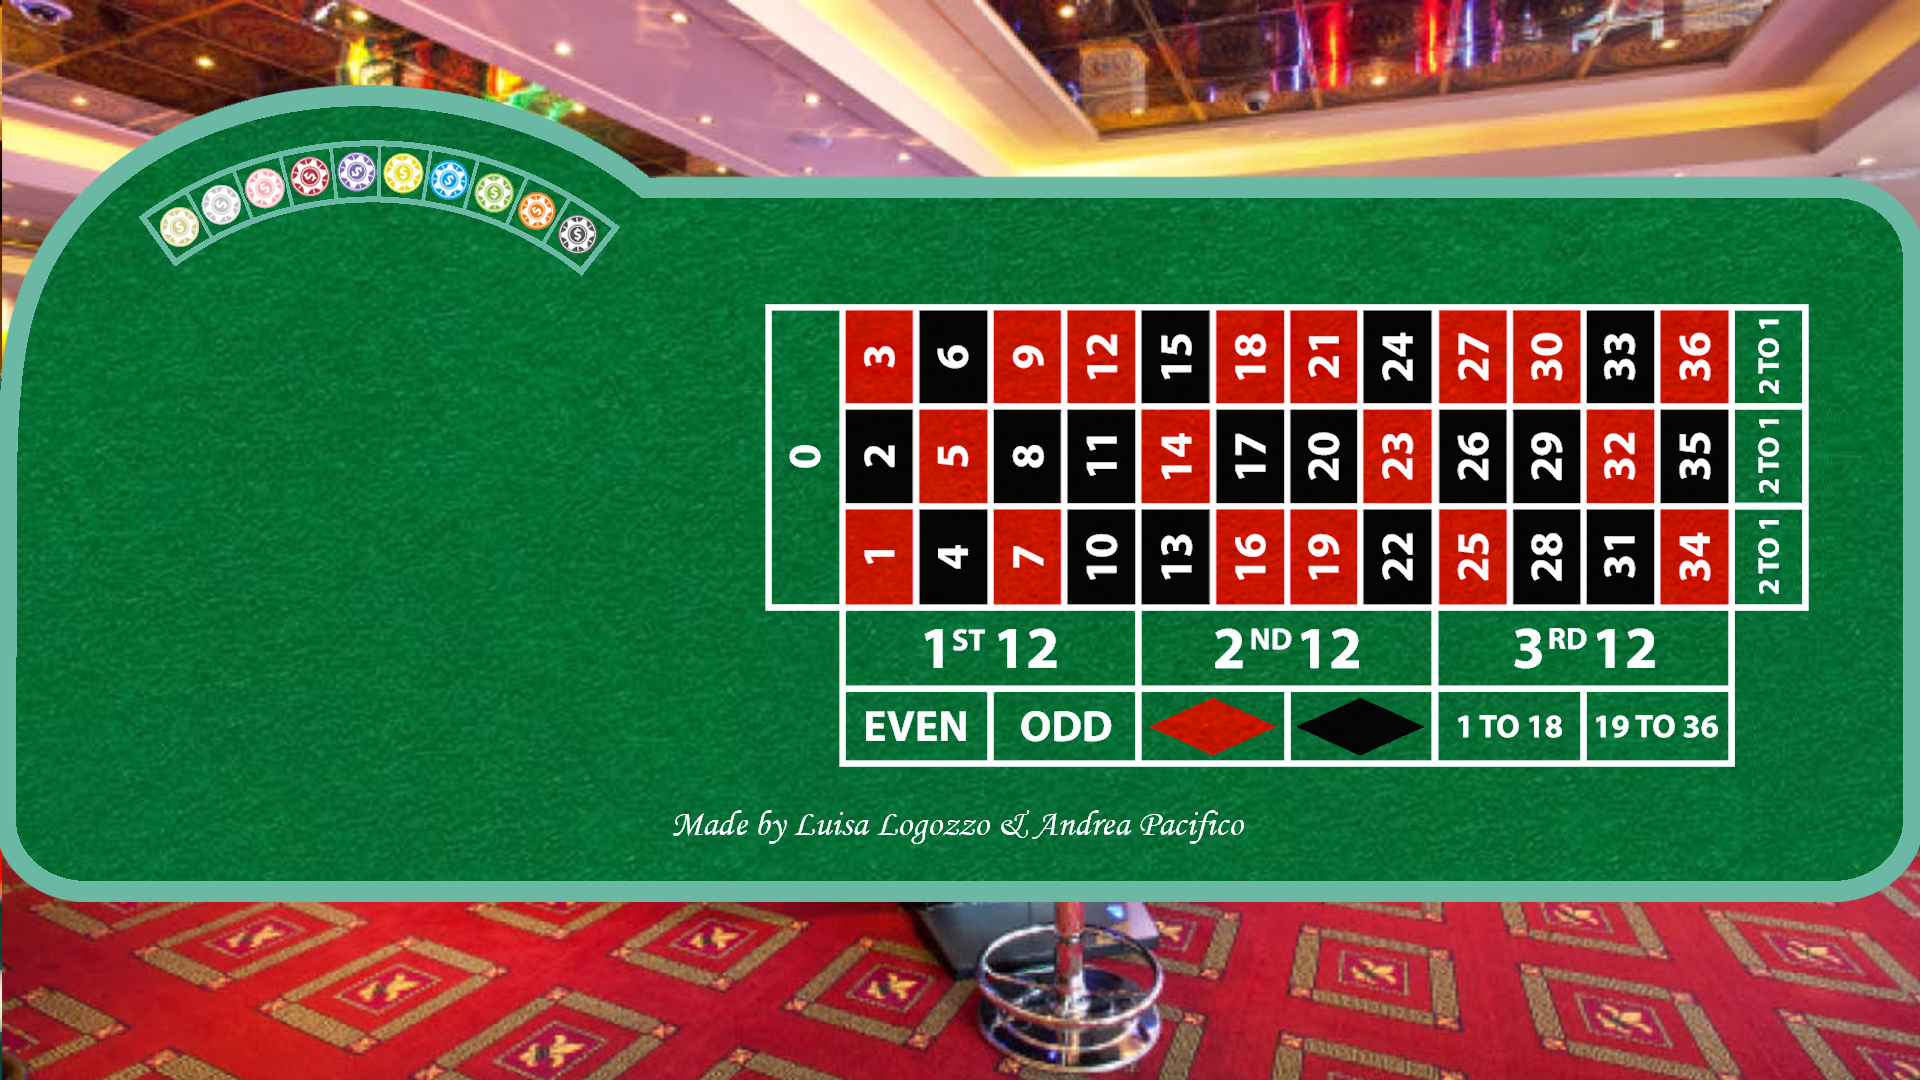
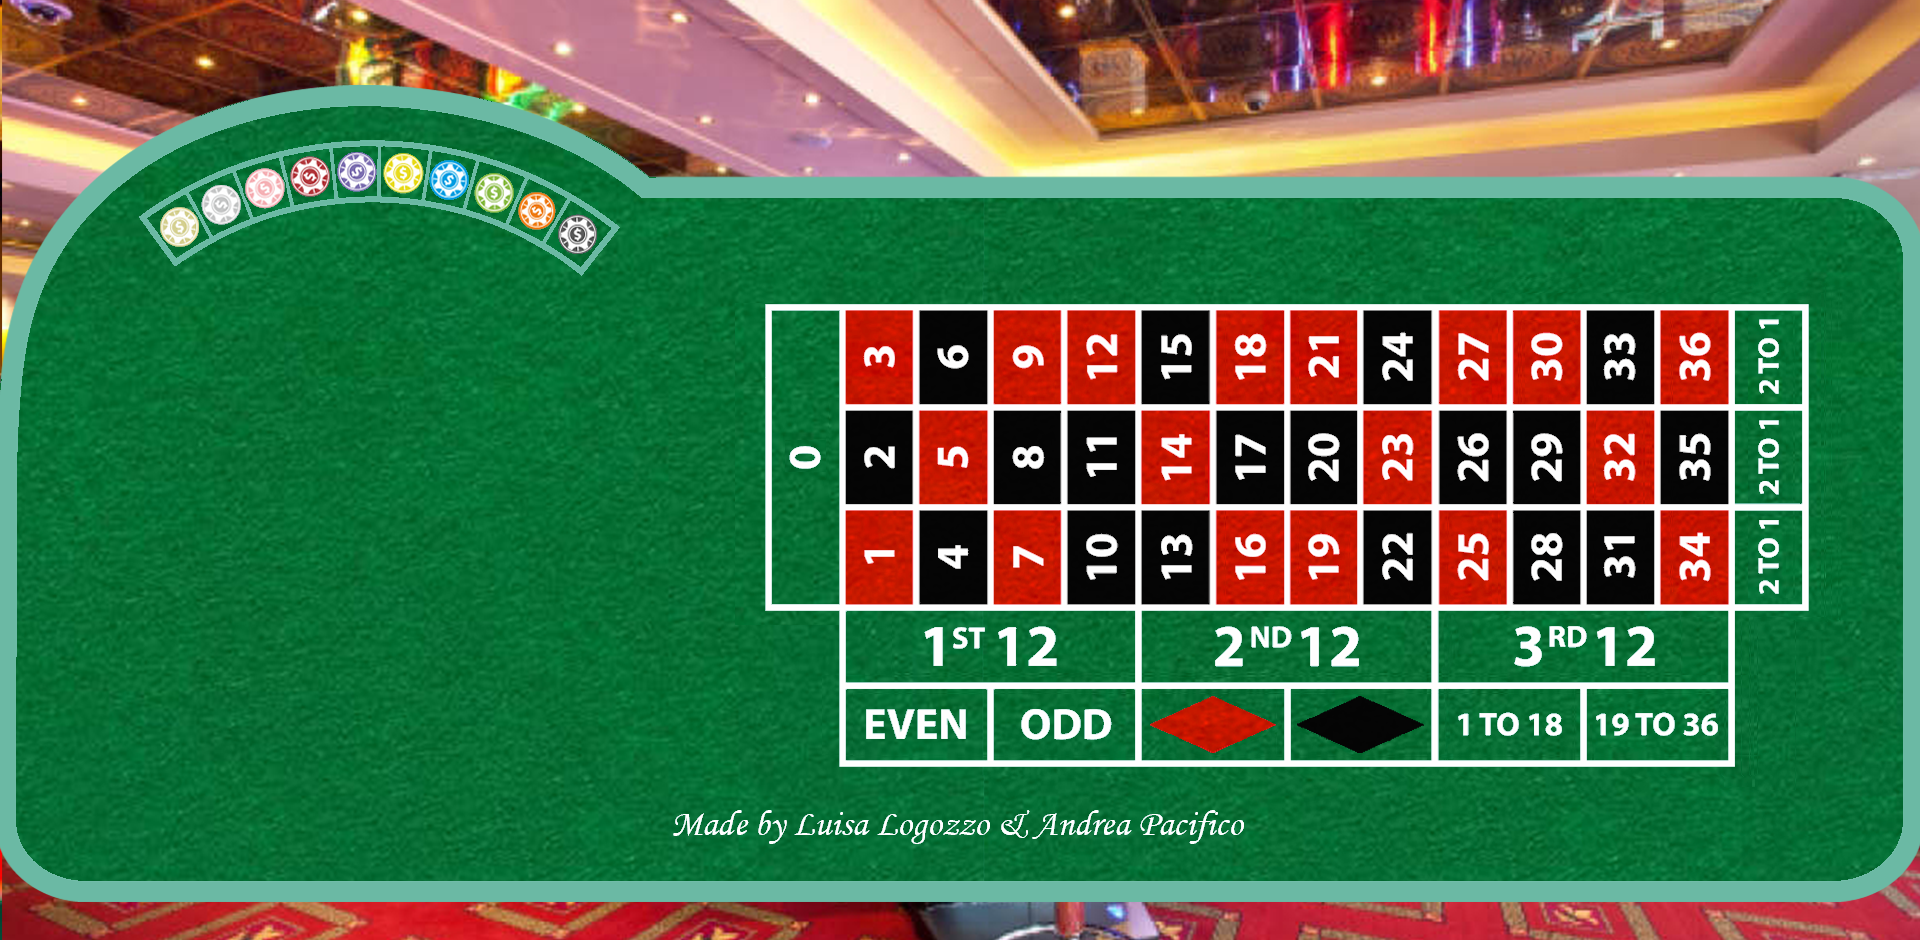
update

diff --git a/css/style.css b/css/style.css
@@ -7,21 +7,20 @@ body {
   background-image: url(../img/background.png);
   background-repeat: no-repeat;
   background-position: center top;
-  background-size: 100% calc(100vw * 9 / 16);
+  background-size: 100% calc(100vw * 940 / 1920);
   width: 100%;
-  height: calc(100vw * 9 / 16);
+  height: calc(100vw * 940 / 1920);
   position: relative;
   /* overflow: hidden; */
 }
 .container {
-  width: 33%;
-  height: 59%;
+  width: 32%;
+  height: 65.4%;
   position: absolute;
-  top: 20%;
-  left: 3%;
+  top: 23.9%;
+  left: 3.6%;
   text-align: center;
 }
-
 .container img {
   height: 100%;
   width: auto;
@@ -30,23 +29,18 @@ body {
   position: absolute;
   top: 50%;
   left: 50%;
-
 }
-
 #pallina {
   position: absolute;
   top: 50%;
   left: 50%;
 }
-
 .animation {
   animation-name: pallina;
   animation-duration: 8s;
   animation-timing-function: linear;
   animation-fill-mode: forwards;
-
 }
-
 @keyframes pallina  {
 0%   {transform: translate(-50%, -50%) rotate(0deg);}
 77%  {transform: translate(-50%, -50%) rotate(960deg);}
@@ -55,18 +49,15 @@ body {
 96%  {transform: translate(-50%, calc(-50% + 19.7%)) rotate(1079.7deg);}
 100% {transform: translate(-50%, calc(-50% + 18%)) rotate(1080.3deg);}
 }
-
 button {
   display: inline-block;
   font-size: 40px;
 }
-
 .gioca-container {
   /* margin-top: 100px; */
   font-size: 40px;
   text-align: center;
 }
-
 .transform5050 {
   transform: translate(-50%, -50%);
 }
@@ -224,16 +215,16 @@ button {
 }
 
 #contenitore-numeri {
-/* background-color: black; */
-display: flex;
-flex-direction: column;
-flex-wrap: wrap;
-position: absolute;
-top: 28.5%;
-left: 40%;
-width: 54%;
-height: 27.7%;
-cursor: pointer;
+  /* background-color: red; */
+  display: flex;
+  flex-direction: column;
+  flex-wrap: wrap;
+  position: absolute;
+  top: 32.7%;
+  left: 40%;
+  width: 54%;
+  height: 31.9%;
+  cursor: pointer;
 }
 #contenitore-numeri div:not(:first-child) {
   width: calc(100% / 14);
@@ -241,41 +232,38 @@ cursor: pointer;
 }
 
 #contenitore-numeri div:hover {
-  background-color: lightgreen;
+  background-color: greenyellow;
   opacity: 0.5;
 }
-
-
 #zero {
   width: calc(100% / 14);
   height: 100%;
 }
-
 #contenitore-tipo-giocata {
   /* background-color: yellow; */
   display: flex;
   flex-wrap: wrap;
   position: absolute;
-  top: 56.3%;
+  top: 64.6%;
   left: 43.9%;
   width: 46.3%;
-  height: 14.4%;
+  height: 16.6%;
   cursor: pointer;
 }
 
 #contenitore-tipo-giocata div:hover {
-  background-color: lightgreen;
+  background-color: greenyellow;
   opacity: 0.5;
 }
 
 .unterzo {
   width: calc(100% / 3);
-  height: 51.9%;
+  height: 50%;
 }
 
 .unsesto {
   width: calc(100% / 6);
-  height: 48.1%;
+  height: 50%;
 }
 
 #primo-12 {
